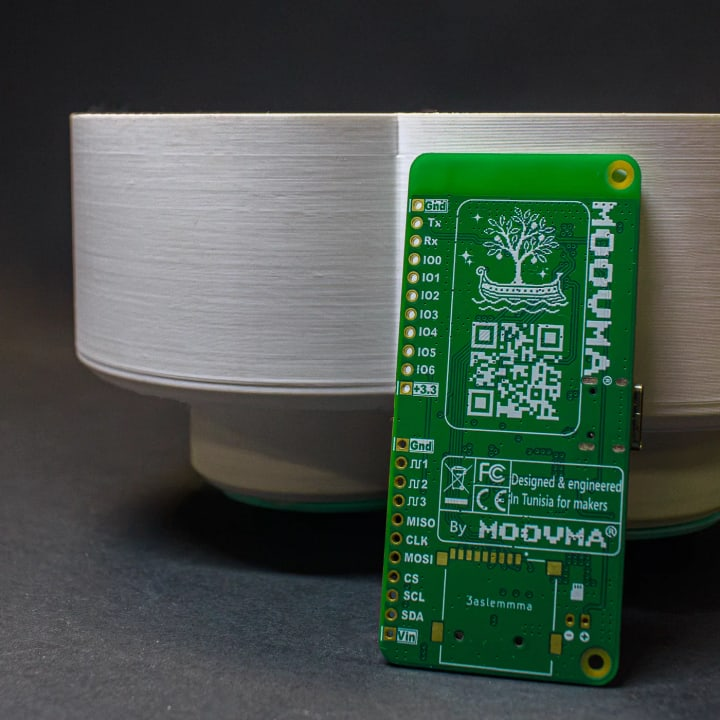
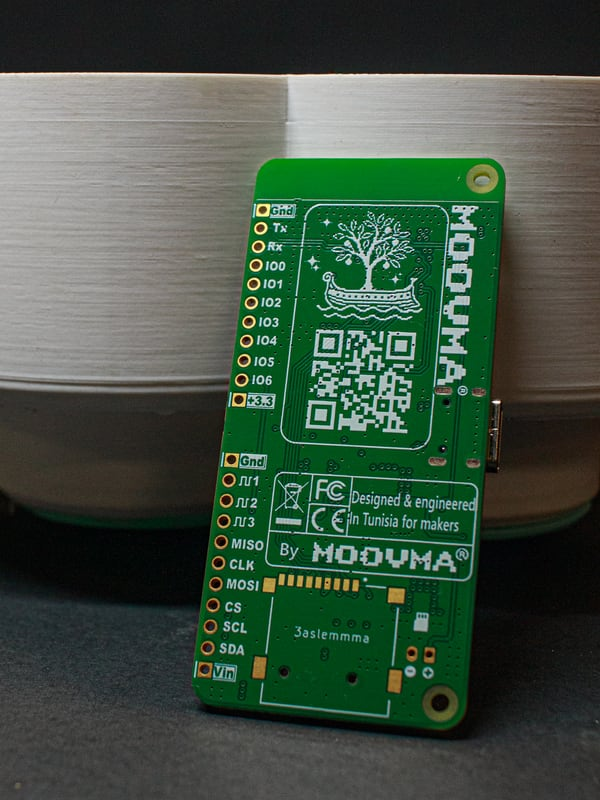
README: real photos of Elyssa instead of the render

diff --git a/README.md b/README.md
@@ -36,10 +36,11 @@ phone. It is built around the **ESP32-S3FN8**.
   <tr>
     <td width="25%"><img src="docs/images/elyssa-front.jpg" alt="Elyssa, front"></td>
     <td width="25%"><img src="docs/images/elyssa-back.jpg" alt="Elyssa, back"></td>
-    <td width="25%"><img src="docs/images/elyssa-about.jpg" alt="Elyssa by Moovma"></td>
+    <td width="25%"><img src="docs/images/elyssa-lights.jpg" alt="Elyssa in the lights"></td>
+    <td width="25%"><img src="docs/images/elyssa-closeup.jpg" alt="Elyssa, close-up of the ESP32-S3 and USB-C"></td>
   </tr>
   <tr align="center">
-    <td><sub>FRONT</sub></td><td><sub>BACK</sub></td><td><sub>TOP</sub></td><td><sub>BY MOOVMA</sub></td>
+    <td><sub>FRONT</sub></td><td><sub>BACK</sub></td><td><sub>IN THE LIGHTS</sub></td><td><sub>ESP32-S3 + USB-C</sub></td>
   </tr>
 </table>
 
